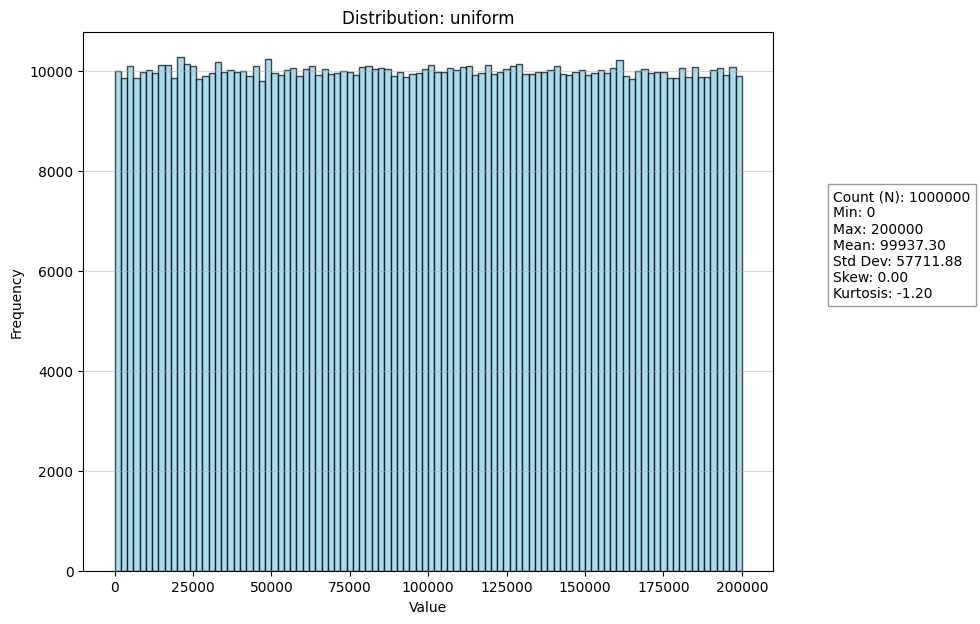
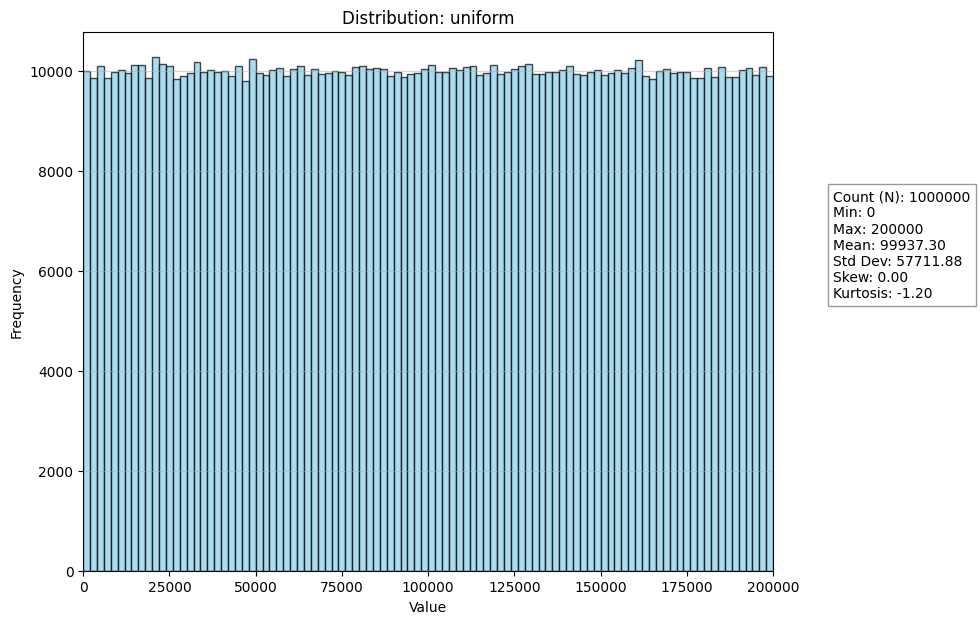
1

diff --git a/plot_datasets.py b/plot_datasets.py
@@ -35,13 +35,18 @@ def plot_distributions():
             plt.figure(figsize=(12, 7))
             
             # Plot Histogram
-            plt.hist(df['v'], bins=100, color='skyblue', edgecolor='black', alpha=0.7)
+            # Use log scale for Zipf to see the tail
+            use_log = (dist == 'zipf')
+            plt.hist(df['v'], bins=100, color='skyblue', edgecolor='black', alpha=0.7, log=use_log)
             
             plt.title(f"Distribution: {dist}")
             plt.xlabel("Value")
-            plt.ylabel("Frequency")
+            plt.ylabel("Frequency" + (" (Log Scale)" if use_log else ""))
             plt.grid(axis='y', alpha=0.5)
             
+            # Fix X-Axis to global domain to show relative width (Anti-Zipf vs Uniform)
+            plt.xlim(0, 200_000)
+
             # Add text box with statistics
             plt.gcf().text(0.75, 0.5, stats_text, fontsize=10, 
                            bbox=dict(facecolor='white', alpha=0.8, edgecolor='gray'))
